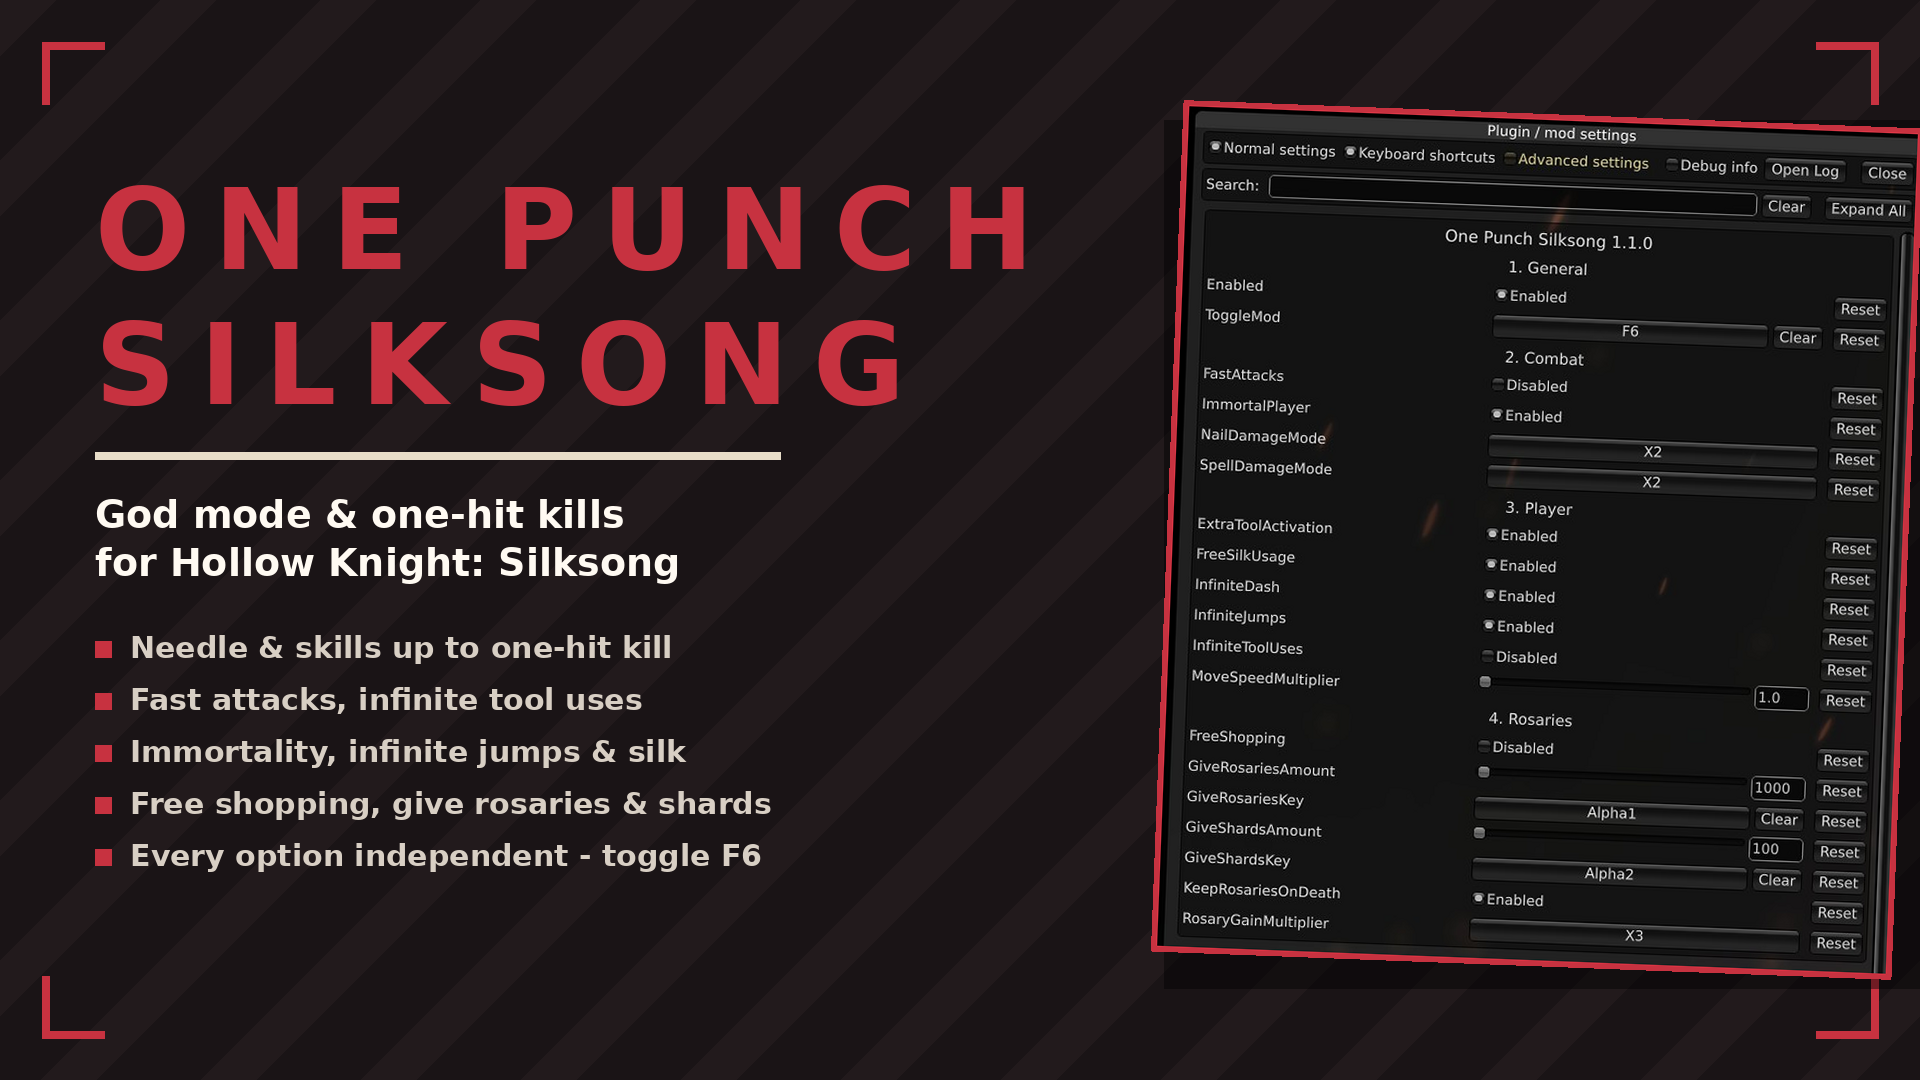
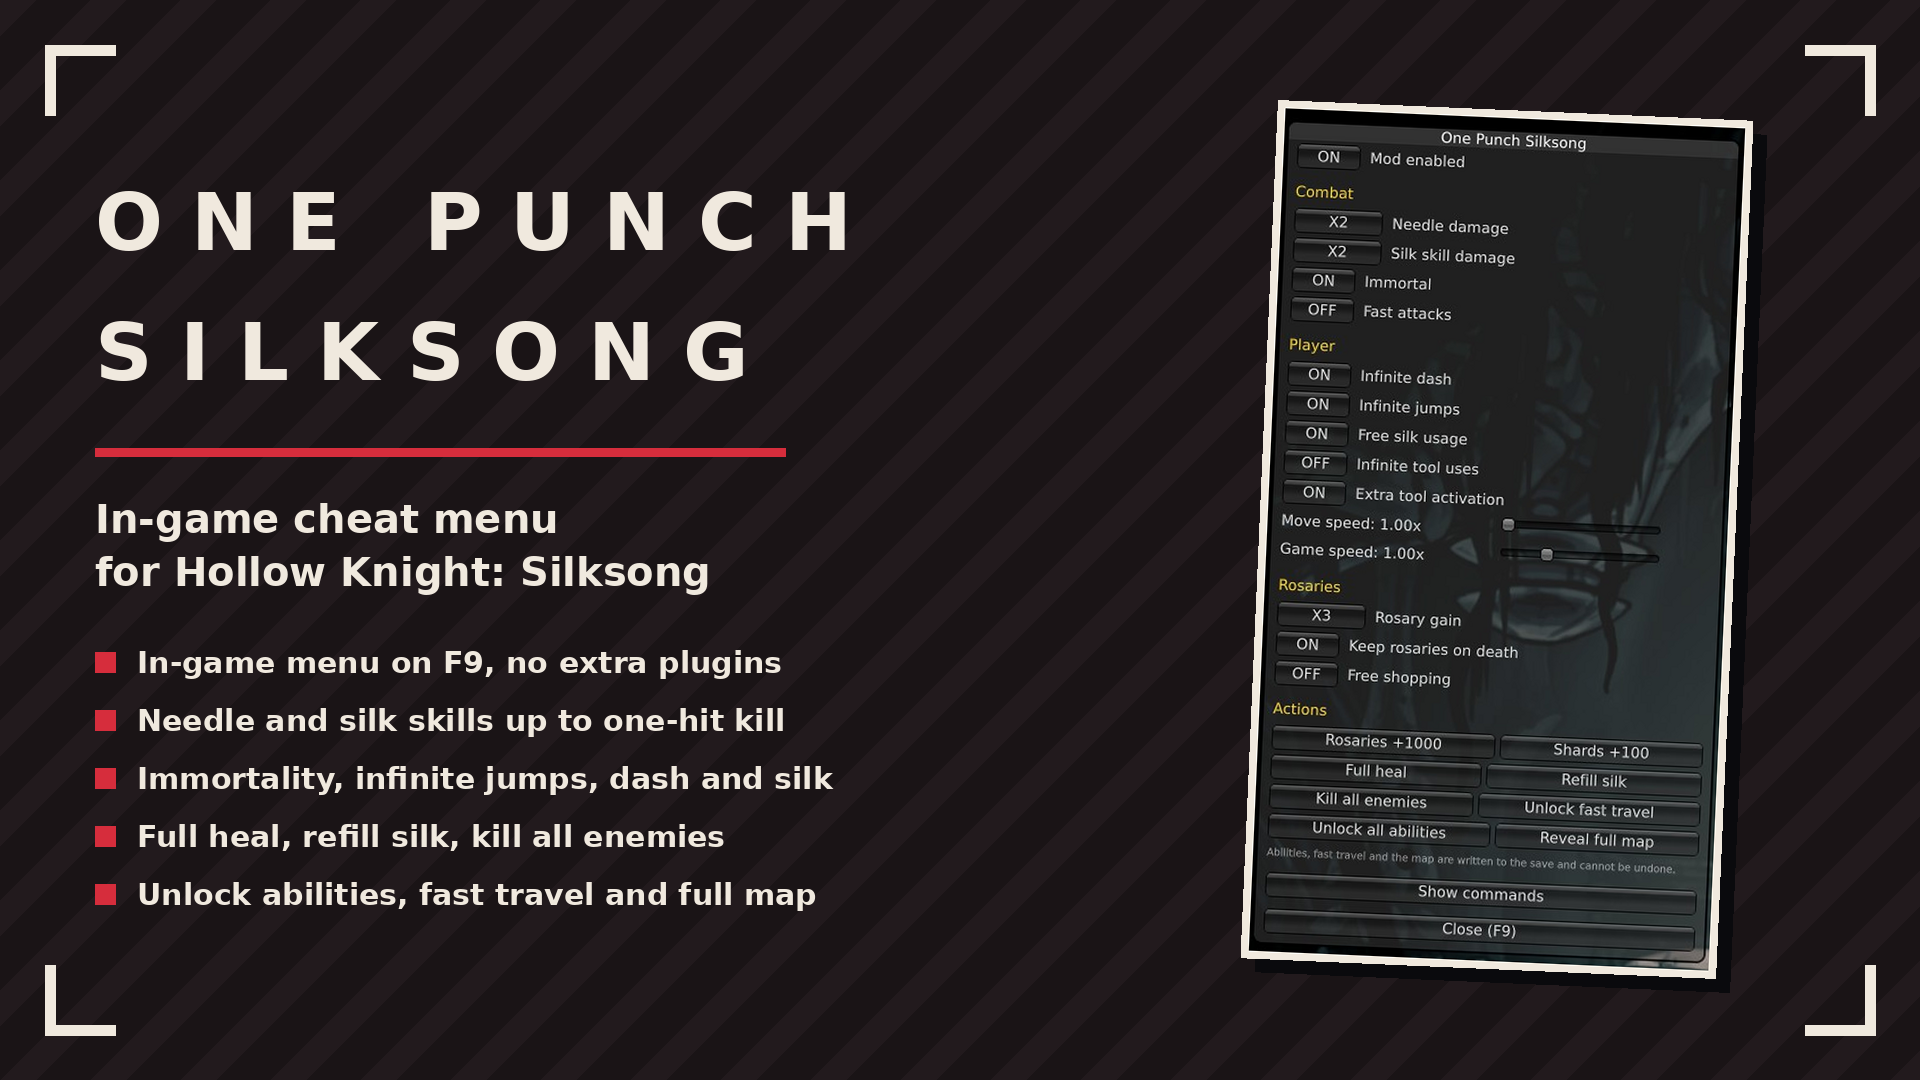
OnePunchSilksong 2.0.0

diff --git a/Silksong/OnePunchSilksong/README.md b/Silksong/OnePunchSilksong/README.md
@@ -4,17 +4,20 @@
 
 ![cover](screenshots/00-hero.png)
 
-Needle and skill damage up to one-hit kill, immortality, infinite jumps and silk, rosary multipliers and extra tool slots. Toggle with F6.
+In-game cheat menu for Hollow Knight: Silksong. Press F9, toggle what you want, no other plugin needed.
 
 ## ✨ Features
-- Needle & skills up to one-hit kill
-- Fast attacks, infinite tool uses
-- Immortality, infinite jumps & silk
-- Free shopping, give rosaries/shards, extra tool slots
-- Every option independent - toggle F6
+- In-game menu on F9, everything live
+- Needle & silk skills up to one-hit kill
+- Fast attacks, infinite tool uses, extra tool slots
+- Immortality, infinite jumps, dash & silk
+- Move speed and game speed sliders
+- Free shopping, give rosaries/shards, rosary multipliers
+- Full heal, refill silk, kill all enemies
+- Unlock all abilities, fast travel & full map
 
 ## 📸 Screenshots
-![screenshot](screenshots/01-v1.1.0.png)
+![menu](screenshots/01-menu.png)
 
 ## 🌍 Translating
 Texts live in `I18n.cs`, one dictionary per language keyed by the English string. To add a
